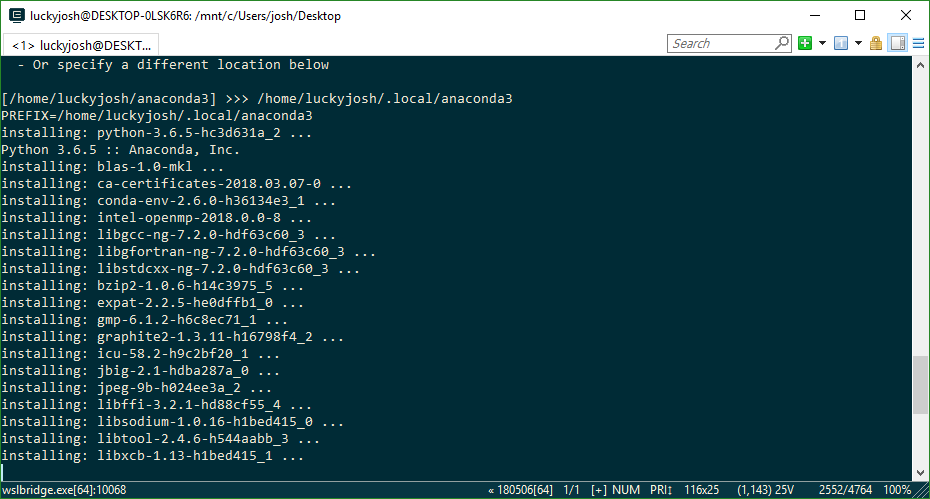
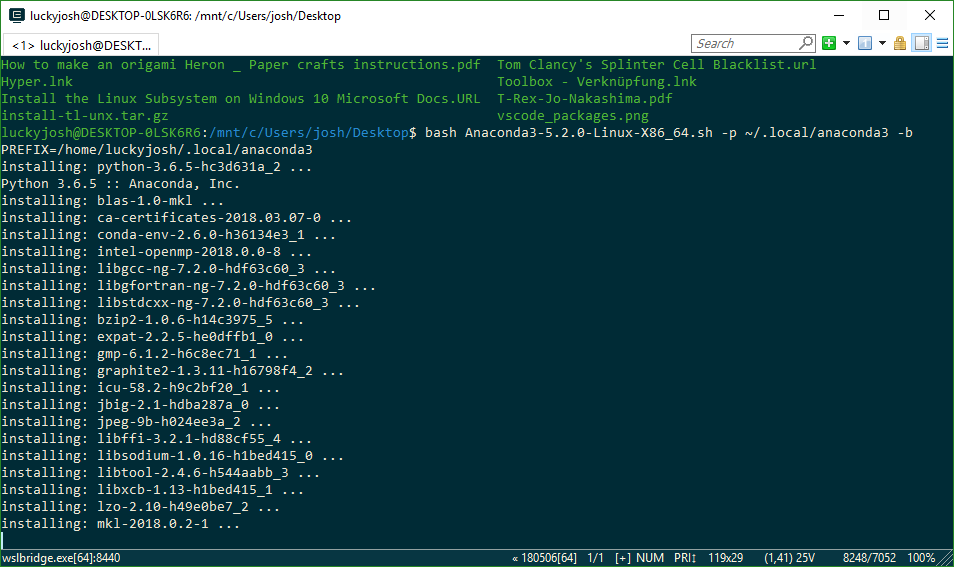
changed anaconda screenshots

Changed region(s): [[0.0, 0.0, 1.0, 1.0], [0.8731, 0.0, 0.9355, 0.0301]]

diff --git a/install/windows.md b/install/windows.md
@@ -699,9 +699,6 @@ Der zweite Befehl zeigt alle Dateien an, die sich im aktuellen Pfad befinden.
 In dieser Liste muss sich auch die zuvor auf den Desktop
 kopierte Installationsdatei für Anaconda befinden (wie im Screenshot hervorgehoben).
 
-<img alt="" src="/img/anaconda-4.png" style="width: 100%;" />
-
-
 Nachfolgend wird der Befehl 
 ```
 bash Anaconda3-5.2.0-Linux-X86_64.sh -p ~/.local/anaconda3 -b
